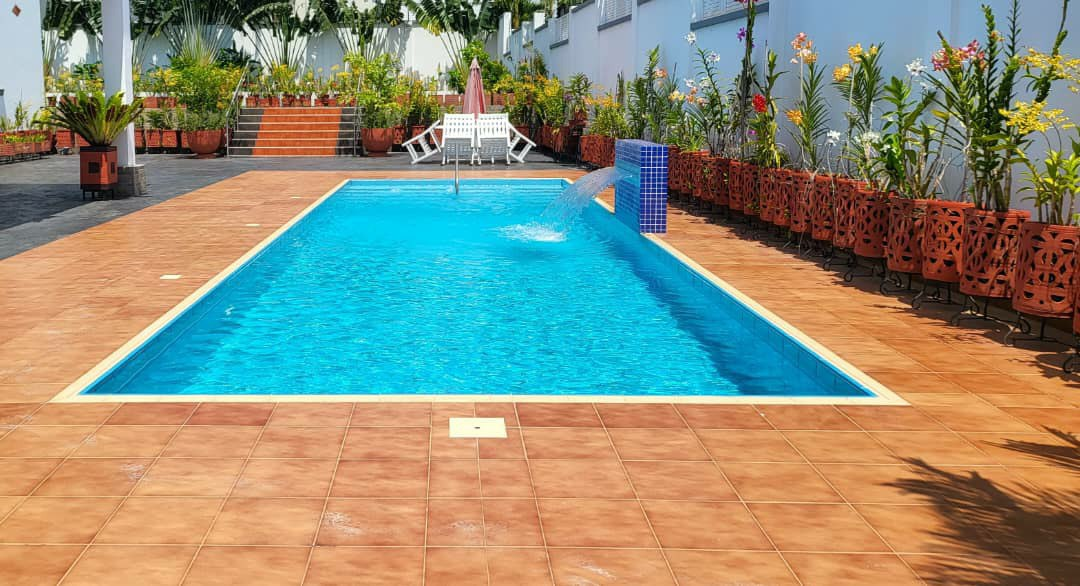
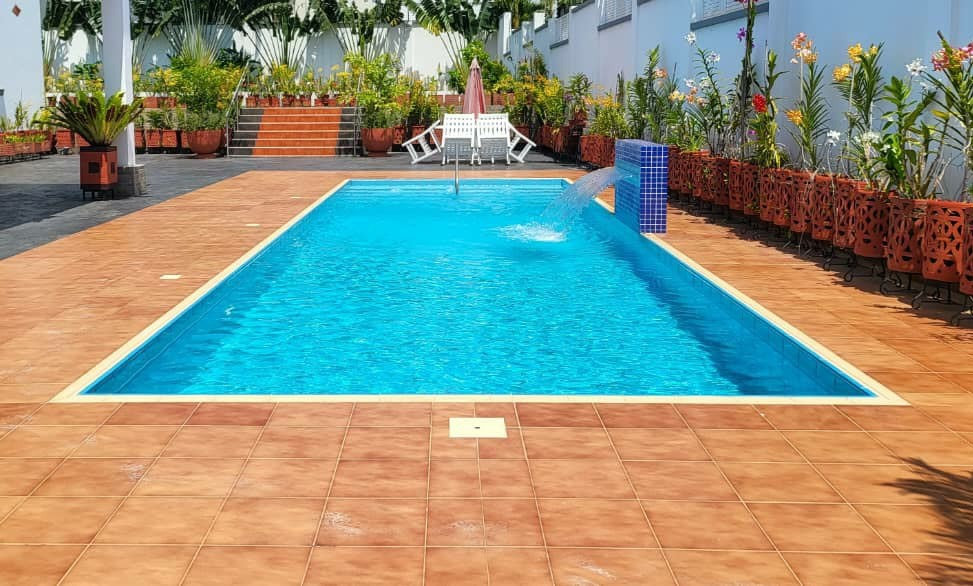
changes

diff --git a/pages/contact.js b/pages/contact.js
@@ -48,19 +48,19 @@ function Contact() {
           <form className="w-full grid grid-cols-1 gap-2">
             <fieldset>
               <label>Full Name</label>
-              <input type="text" placeholder="Gates Vert" />
+              <input type="text"  />
             </fieldset>
             <fieldset>
               <label>Email</label>
-              <input type="email" placeholder="gatesvert@gmail.com" />
+              <input type="email" />
             </fieldset>
             <fieldset>
               <label>Telephone Number</label>
-              <input type="tel" placeholder="054126847" />
+              <input type="tel" />
             </fieldset>
             <fieldset>
               <label>Message</label>
-              <textarea type="text" placeholder="Gates Vert" />
+              <textarea type="text" />
             </fieldset>
             <fieldset>
               <Button style=" w-full primary-btn">Send Message</Button>

diff --git a/pages/index.js b/pages/index.js
@@ -81,7 +81,7 @@ export default function Home() {
           {/* <ImageSlider slides={["/project-pics/home-pool.webp", "/product-pics/water-pressure.jpg"]} /> */}
           <div className="w-full h-full relative">
             <Image
-              src="/project-pics/home-pool.webp"
+              src="/project-pics/duplan-pool.jpg"
               priority={true}
               alt="Dream pool"
               layout="fill"
